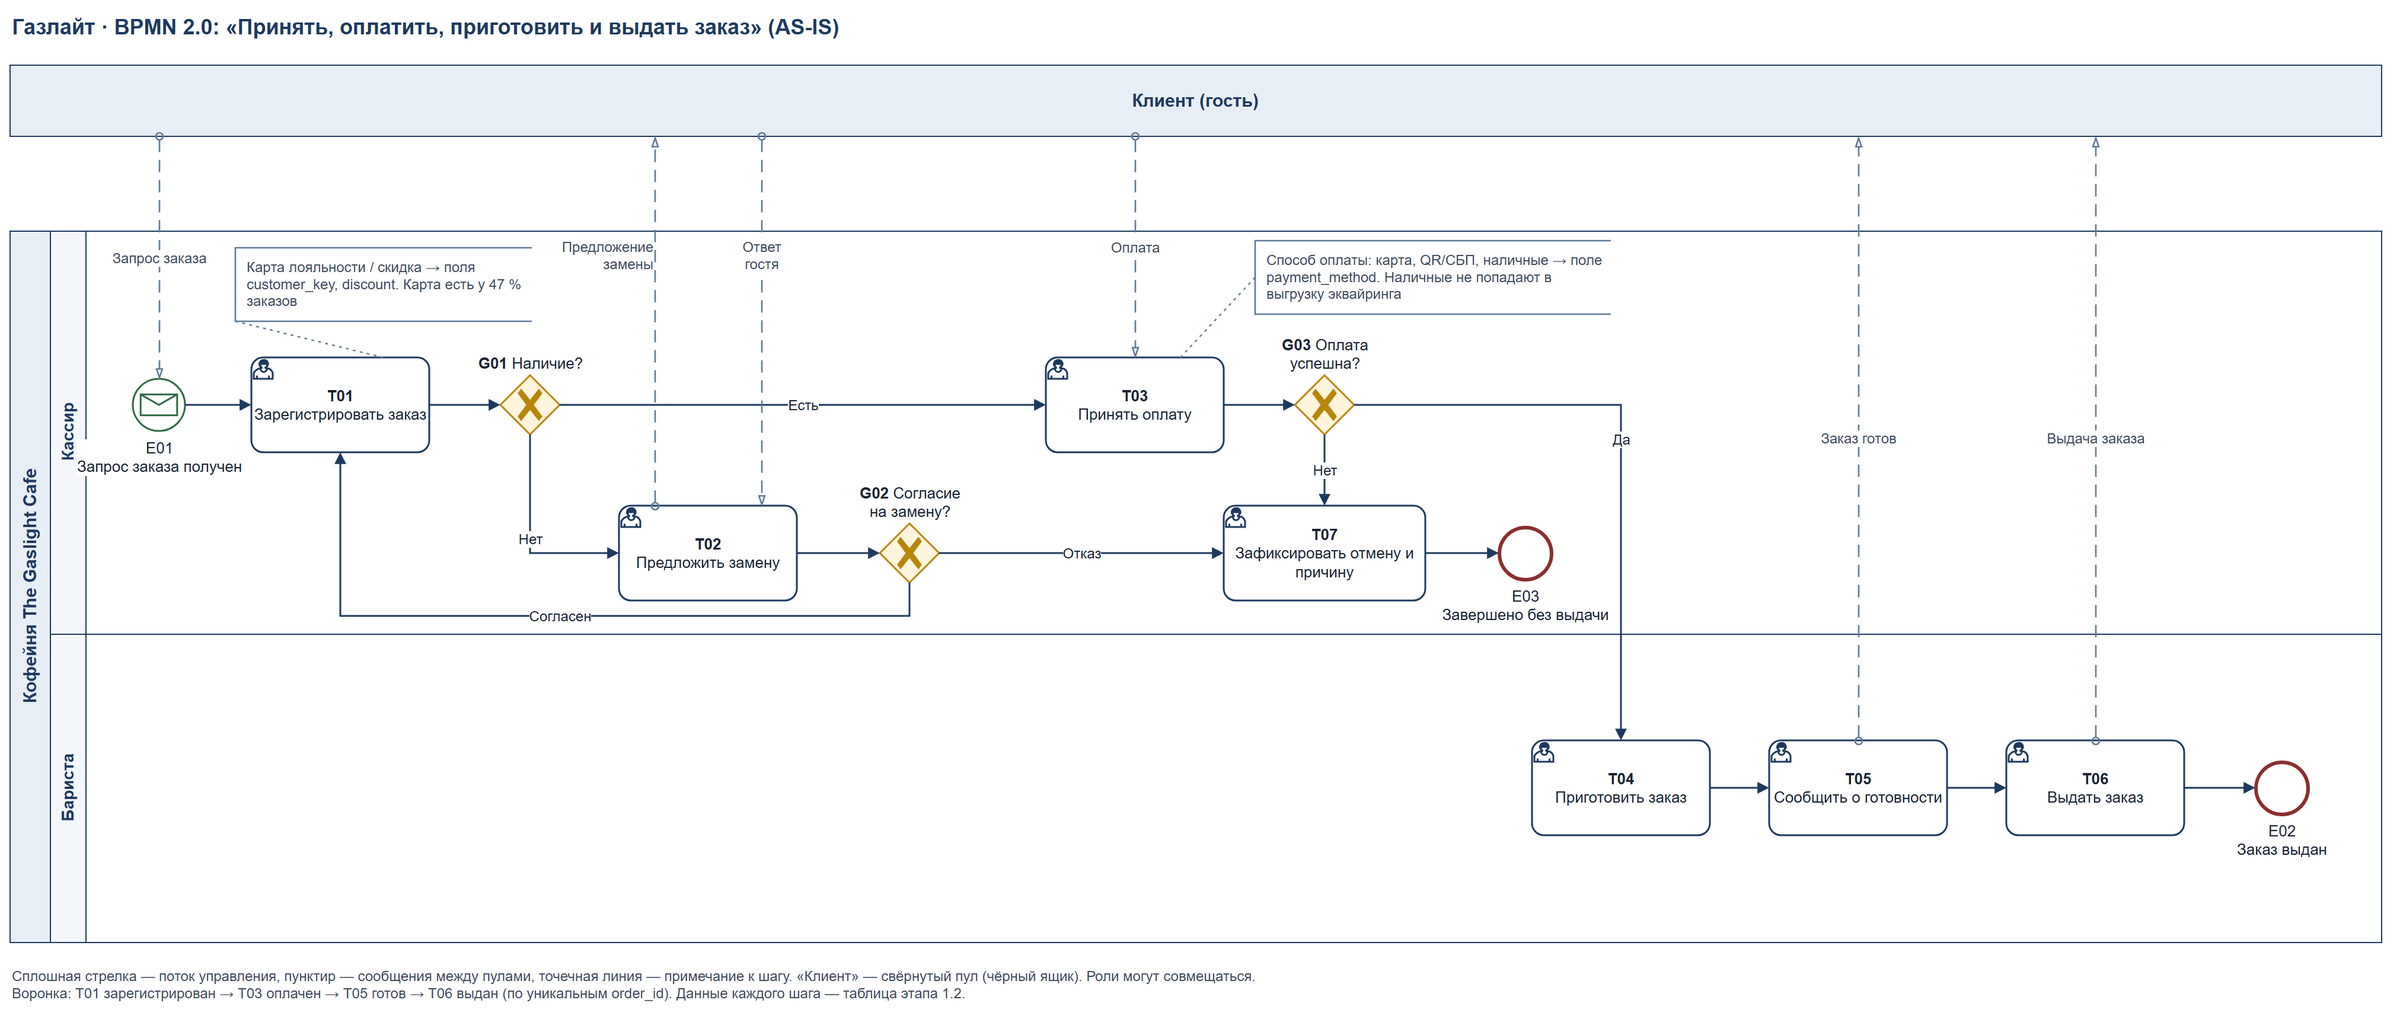
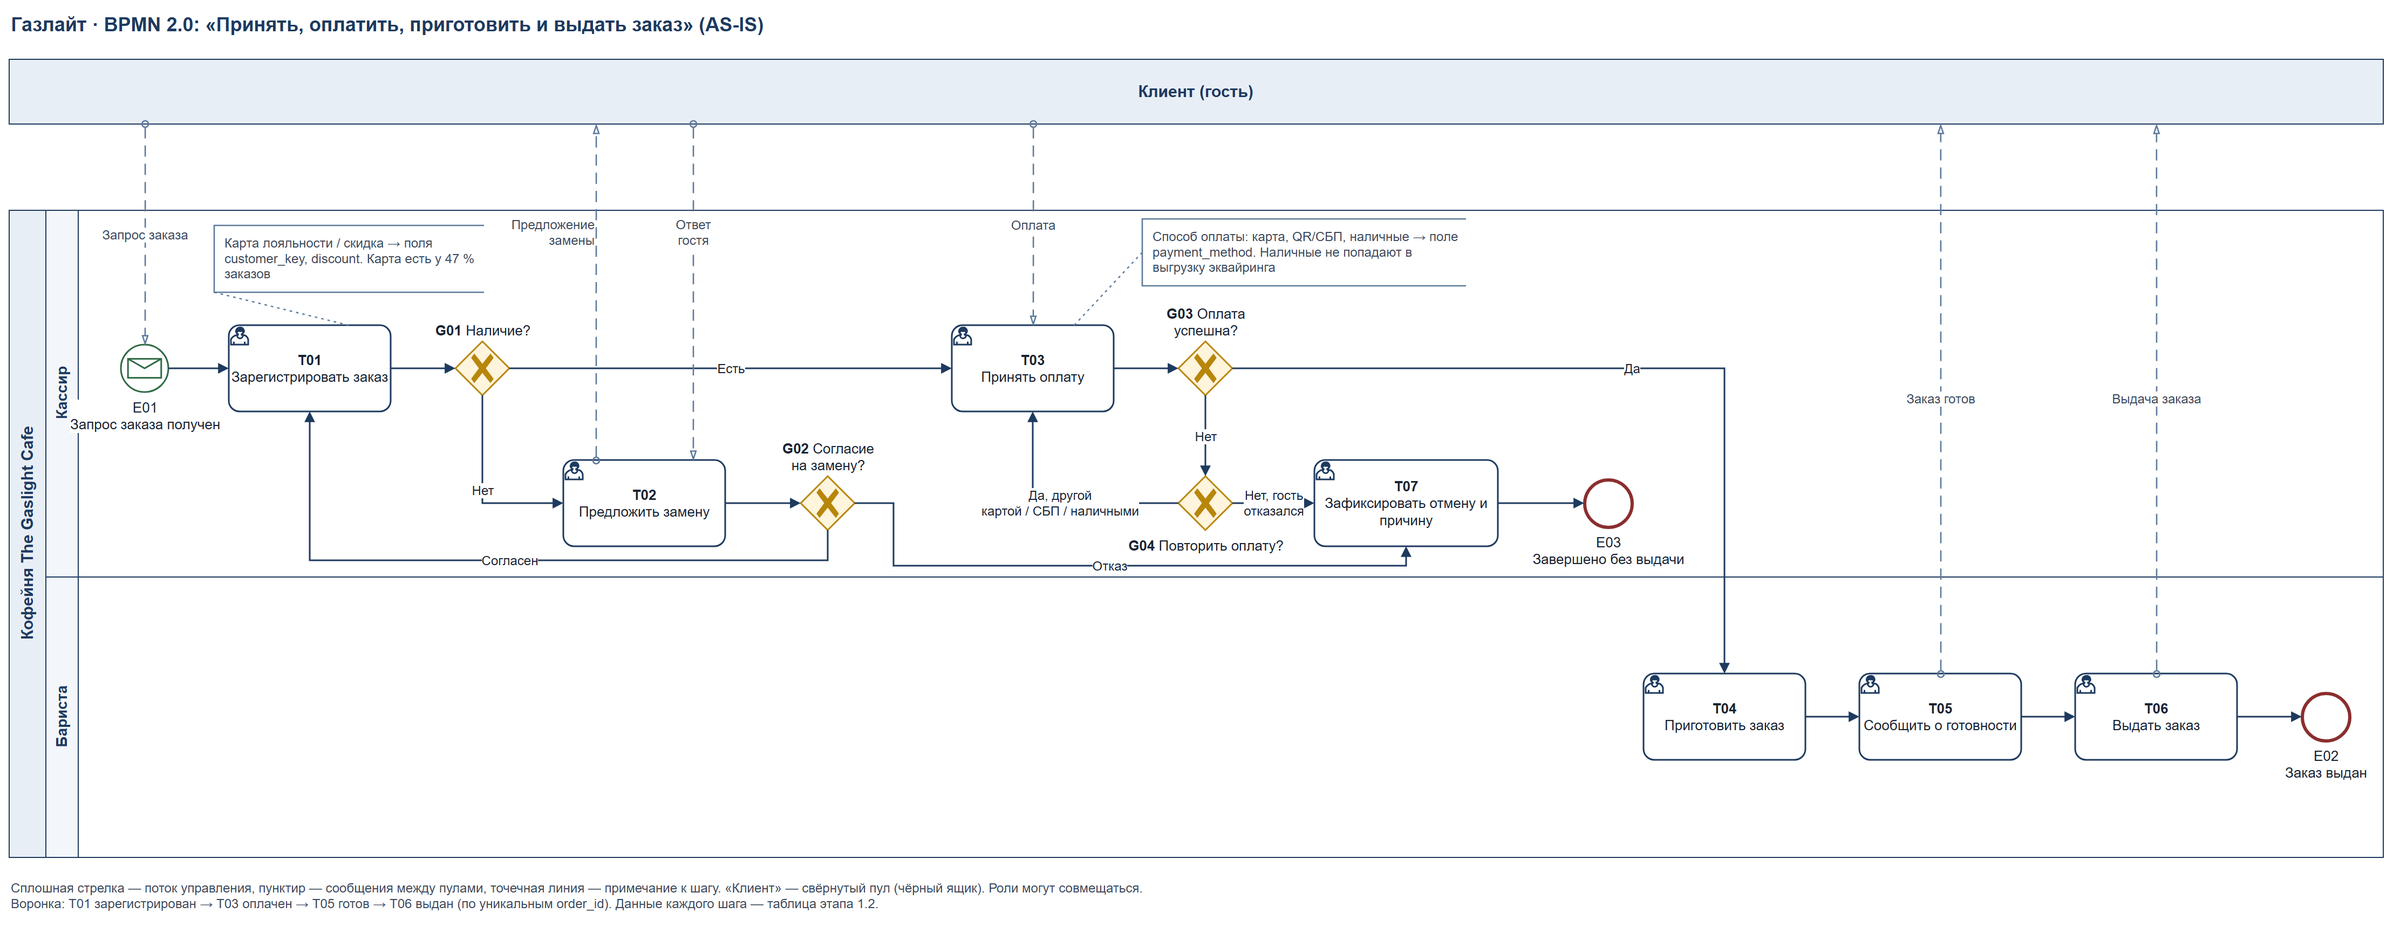
BPMN: повторная попытка оплаты (развилка G04)

diff --git a/story.html b/story.html
@@ -60,7 +60,7 @@ h2{font-family:var(--disp);font-weight:600;font-size:clamp(26px,3.4vw,44px);line
 <tr><td>Как долго гость ждёт после оплаты и когда SLA нарушается?</td><td>Второй бариста на пик, подготовка к пику</td><td>Медиана и P90 ожидания, доля в SLA ≤ 5 мин</td></tr>
 <tr><td>На каком шаге теряются заказы?</td><td>Запас, стоп-лист, оплата</td><td>Воронка заказов, отмены по причинам</td></tr>
 <tr><td>Кто возвращается и кто перестал приходить?</td><td>Программа удержания по сегментам</td><td>Повтор за 30 дней, RFM-сегменты</td></tr>
-<tr><td>Что вызывает плохой опыт?</td><td>Приоритет улучшений сервиса</td><td>CSAT, темы отзывов по этапам CJM</td></tr></table></div></template></section><section class="slide" id="s3" aria-label="Заказ проходит 4 шага, и на каждом рождаются данные"><div class="txt"><div class="kick">2 · Процесс BPMN</div><h2>Заказ проходит 4 шага, и на каждом рождаются данные</h2><p class="lead">Пулы «Клиент» и «Кофейня» (кассир, бариста), развилки «Наличие?», «Согласие на замену?», «Оплата успешна?». Каждый шаг имеет код T/G/E, по нему связаны схема, журнал событий и KPI.</p><div class="nums"><div class="num"><b data-v="T01→T06">T01→T06</b><span>основной путь</span></div><div class="num"><b data-v="3">3</b><span>развилки</span></div><div class="num"><b data-v="T07">T07</b><span>отмена с причиной</span></div></div><div class="acts"><button type="button" class="tbtn" data-t="t2_0">▦ Шаги, роли и данные</button></div></div><div class="figs"><figure class="fig" tabindex="0" role="button" aria-label="Открыть: BPMN процесса «Принять, оплатить, приготовить и выдать заказ»" data-src="img/01_bpmn.png?v=2" data-cap="BPMN процесса «Принять, оплатить, приготовить и выдать заказ»"><img src="img/01_bpmn.png?v=2" alt="BPMN процесса «Принять, оплатить, приготовить и выдать заказ»" loading="lazy"><figcaption>BPMN процесса «Принять, оплатить, приготовить и выдать заказ» · нажмите, чтобы открыть</figcaption></figure></div><template id="t2_0"><h3>Шаги, роли и данные</h3><div class="tw"><table><tr><th>Шаг</th><th>Роль</th><th>Действие</th><th>Какие данные «рождаются»</th><th>Система-источник</th><th>Исход</th></tr>
+<tr><td>Что вызывает плохой опыт?</td><td>Приоритет улучшений сервиса</td><td>CSAT, темы отзывов по этапам CJM</td></tr></table></div></template></section><section class="slide" id="s3" aria-label="Заказ проходит 4 шага, и на каждом рождаются данные"><div class="txt"><div class="kick">2 · Процесс BPMN</div><h2>Заказ проходит 4 шага, и на каждом рождаются данные</h2><p class="lead">Пулы «Клиент» и «Кофейня» (кассир, бариста), развилки «Наличие?», «Согласие на замену?», «Оплата успешна?». Каждый шаг имеет код T/G/E, по нему связаны схема, журнал событий и KPI.</p><div class="nums"><div class="num"><b data-v="T01→T06">T01→T06</b><span>основной путь</span></div><div class="num"><b data-v="3">3</b><span>развилки</span></div><div class="num"><b data-v="T07">T07</b><span>отмена с причиной</span></div></div><div class="acts"><button type="button" class="tbtn" data-t="t2_0">▦ Шаги, роли и данные</button></div></div><div class="figs"><figure class="fig" tabindex="0" role="button" aria-label="Открыть: BPMN процесса «Принять, оплатить, приготовить и выдать заказ»" data-src="img/01_bpmn.png?v=3" data-cap="BPMN процесса «Принять, оплатить, приготовить и выдать заказ»"><img src="img/01_bpmn.png?v=3" alt="BPMN процесса «Принять, оплатить, приготовить и выдать заказ»" loading="lazy"><figcaption>BPMN процесса «Принять, оплатить, приготовить и выдать заказ» · нажмите, чтобы открыть</figcaption></figure></div><template id="t2_0"><h3>Шаги, роли и данные</h3><div class="tw"><table><tr><th>Шаг</th><th>Роль</th><th>Действие</th><th>Какие данные «рождаются»</th><th>Система-источник</th><th>Исход</th></tr>
 <tr><td>E01/T01</td><td>Кассир</td><td>Получить запрос, зарегистрировать заказ</td><td>order_id, created_at, позиции, формат, карта гостя</td><td>Касса (ист. 1), лояльность (5)</td><td>Начало воронки</td></tr>
 <tr><td>G01</td><td>Кассир</td><td>Проверить наличие</td><td>available_flag, unavailable_item_id</td><td>Касса: стоп-лист</td><td>Есть → T03; нет → T02</td></tr>
 <tr><td>T02/G02</td><td>Кассир + клиент</td><td>Предложить замену</td><td>replacement_accepted, причина отказа</td><td>Касса</td><td>Согласен → T01; отказ → T07</td></tr>
